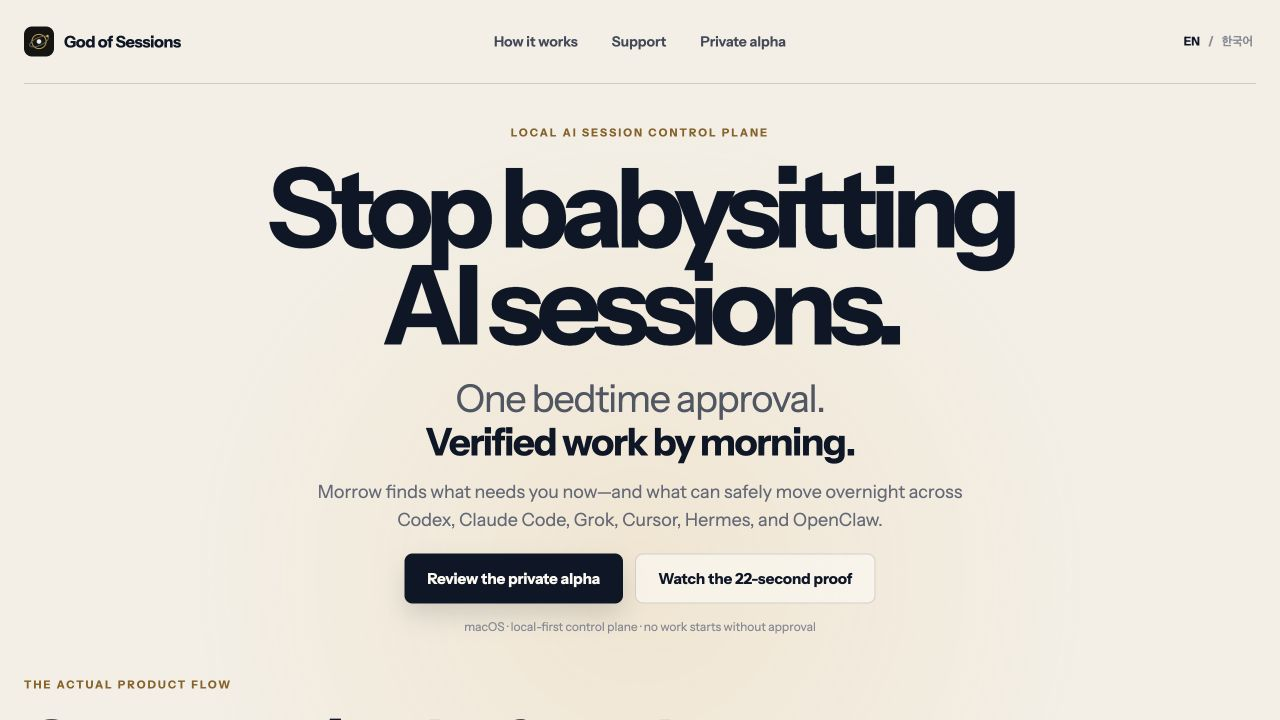
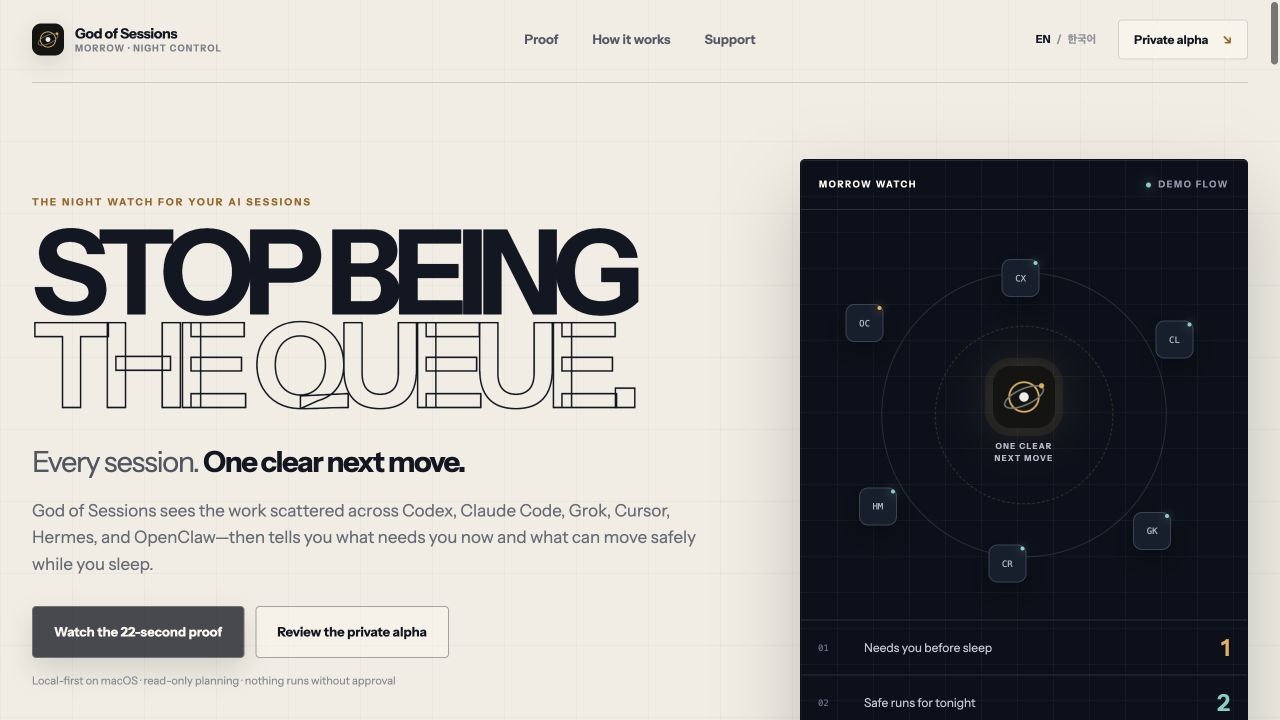
docs: refresh private alpha launch package

diff --git a/docs/launch/first-user-review.md b/docs/launch/first-user-review.md
@@ -2,64 +2,76 @@
 
 ## Verdict
 
-The launch candidate explains a distinct product in five seconds and makes one
-install reason memorable. The proof is believable and the install path is
-honest. Conversion is ready for a private alpha; public download conversion is
-blocked by Apple notarization, not by another missing product feature.
+The launch candidate now presents one ownable idea in the first viewport:
+**Stop being the queue.** It immediately resolves the idea into the practical
+promise **Every session. One clear next move**, then proves the product with a
+22-second cut of the real English app.
+
+The landing and product proof are ready for a private alpha. A frictionless
+public Mac download is still blocked by Apple notarization, hosted-download
+verification, and a clean-machine install pass—not by another missing product
+feature.
 
 ## Stranger test
 
 | Question | Answer | Evidence |
 | --- | --- | --- |
-| Can a stranger understand it in five seconds? | **Yes** | The first viewport says “Stop babysitting AI sessions” and “One bedtime approval. Verified work by morning.” Both CTAs and the trust line are visible at 1280×720. |
-| Is it distinct from a multi-agent launcher? | **Yes** | Copy centers what needs the person, what can safely move overnight, one approval, and morning evidence—not opening agents in one workspace. |
-| Is one install reason memorable? | **Yes** | The bedtime approval → morning evidence outcome is repeated once as the hero promise and once as the branded close. |
-| Is there proof that it is a real product? | **Yes** | The second section is a 22-second current-app cut. Every fixture-backed frame is labeled `REAL APP UI · DEMO DATA`. |
-| Are permissions and safety understandable? | **Yes** | Planning is read-only; the exact route, workspace, permissions, and time are frozen before approval; direct unsupported write paths are visibly off. |
-| Does the CTA lead somewhere real? | **Private alpha: yes. Public launch: no.** | The review CTA reaches a signed 6.1 MB DMG and states notarization is pending. The page never labels it a normal public install. |
-| Does the landing work without video? | **Yes** | Hero, four-step workflow, trust boundary, provider matrix, install status, and FAQ contain the complete decision path. |
-| Does the video create interest without the landing? | **Yes** | It opens with the human-queue pain, shows the actual Morrow path, and ends with the single outcome; captions make it silent-first. |
+| Can a stranger understand it in five seconds? | **Yes** | The first viewport names the operator bottleneck, promises one next move, shows the six session sources converging on Morrow Watch, and exposes the proof CTA. |
+| Is it distinct from a multi-agent launcher? | **Yes** | The story is about attention, capacity, one exact approval, and morning evidence—not opening more agent terminals. |
+| Is one install reason memorable? | **Yes** | “Stop being the queue” is the hook; one bedtime approval followed by provider evidence is the concrete outcome. |
+| Is there proof that it is a real product? | **Yes** | The next section is a 22-second current-app cut. It uses the real English surface and marks fixture-backed frames `REAL APP UI · DEMO DATA`. |
+| Are permissions and safety understandable? | **Yes** | The three-state system separates `Needs you`, `Safe tonight`, and `Morning evidence`; a separate instrument panel shows the exact route, workspace, permission, network, time, and wake deadline. |
+| Does the CTA lead somewhere real? | **Private alpha: yes. Public launch: no.** | The install CTA reaches a signed 6.1 MB DMG and explicitly states that notarization is pending. |
+| Does the landing work without video? | **Yes** | Hero, signal board, three-state decision system, exact approval boundary, support matrix, install state, and FAQ carry the complete story. |
+| Does the video create interest without the landing? | **Yes** | It opens on the human-queue problem, shows Morrow Watch → question → ranked plan → exact approval → Morning Review, and works without audio. |
 
 ## P0/P1 changes applied
 
-- Changed the hero CTA from an implied immediate download to
-  `Review the private alpha`, matching the next section.
-- Replaced “fail closed” implementation language with the user-visible
-  authorization and evidence condition.
-- Corrected the login note so already-connected users are not promised two
-  browser flows.
-- Added runtime artifact detection so a missing DMG disables the CTA instead
-  of silently returning the landing HTML.
-- Kept the actual product proof immediately after the hero and moved no
-  character art above it.
-- Made response-time model locking visible and explanatory in the actual app;
-  selectors unlock after the turn finishes.
+- Rebuilt the landing around the ownable **night watch** thesis rather than a
+  generic SaaS section stack.
+- Replaced the launch proof with current English product captures; the longer
+  brand film remains untouched.
+- Added four chapter controls that seek to the exact product decisions and
+  expose the active chapter with `aria-pressed`.
+- Completed product-owned English strings across the shell, Control Board,
+  Session Inbox, Settings, Overnight, bundled evidence, and preview
+  conversation excerpts. User/provider-owned live titles remain verbatim.
+- Added visible model-setting outcomes: saving, success, provider fallback,
+  unsupported selection, and response-time lock explanations.
+- Replaced the old Korean-product social image with a 1200×630 English landing
+  preview.
+- Converted the below-fold Morrow image from a 1.6 MB eager PNG to a 63 KB
+  lazy-loaded WebP.
+- Kept the support matrix explicit about observation, capacity, direct
+  execution, and unsupported write paths.
 
 ## Visual and interaction checks
 
-- Desktop viewport checked in a real browser at 1280×720.
-- Hero headline, both CTAs, and the approval trust line fit before the fold.
-- Proof video reports 22.058667 seconds, reaches ready state 4, autoplays muted,
-  and hides the poster fallback only after it can play.
-- English/Korean switch changes hero copy and the live artifact-status text;
-  the English default was restored after testing.
-- Download HEAD returns the DMG rather than an HTML SPA fallback.
-- DOM order and accessible roles cover the navigation, both hero actions,
-  provider table, install links, and FAQ controls.
-- Mobile rules were inspected at the 900 px and 640 px breakpoints: navigation
-  collapses, hero actions stack full-width, proof becomes edge-to-edge, support
-  cells compact, install becomes one column, and install notes stack. The
-  connected browser would not permit a forced mobile viewport, so no claim of
-  an actual device screenshot is made.
+- Desktop checked in the connected browser at 1280×720.
+- Mobile checked with an actual 390×844 viewport override.
+- Both viewport checks reported no horizontal overflow.
+- English and Korean hero states were visually captured after the redesign;
+  the shorter Korean headline no longer forces a third oversized line.
+- The proof is readable on mobile, stays edge-to-edge, and retains the
+  `REAL APP UI · DEMO DATA` boundary.
+- The third chapter seeks to 11.9 seconds, starts playback, and moves
+  `aria-pressed` to the selected control.
+- The proof reports 22.0 seconds, H.264 1920×1080 at 30 fps, 4.0 MB, no audio
+  stream, and fast-start encoding.
+- English/Korean switching updates the asynchronous DMG state; English was
+  restored after testing.
+- The local download HEAD returns the DMG rather than the HTML fallback.
+- Reduced-motion behavior disables automatic looping and leaves normal video
+  controls available.
 
 ## Remaining conversion risk
 
-1. An unnotarized download creates a security detour before the product can
-   deliver value.
-2. Product-owned English content in Control Board/Overnight still needs a
-   clean pass; user/provider-owned titles should remain verbatim.
-3. A clean Apple Silicon account has not completed the hosted-download →
-   Applications → first question → relaunch path with quarantine preserved.
+1. The unnotarized download still creates a trust-breaking Gatekeeper detour.
+2. `sessions.vibejason.com` has not been connected to hosting, so the final
+   HTTPS download path and social metadata have not been verified in public.
+3. A clean Apple Silicon account has not completed download → Applications →
+   onboarding → provider connection → first question → quit/reopen with
+   quarantine preserved.
 
 These are release-quality blockers. None is a reason to add another
-orchestration feature tonight.
+orchestration feature.

diff --git a/docs/launch/public-copy-review.md b/docs/launch/public-copy-review.md
@@ -1,119 +1,70 @@
-# Public Copy Review — launch surfaces
+# Public copy review — launch surfaces
 
-**Mode:** audit+fix  
 **Scope:** `landing/index.html`, `landing/src/main.ts`, `landing/README.md`,
-`docs/launch/x-launch-package.md`  
-**Audience:** developers already using multiple local coding agents  
+`docs/launch/x-launch-package.md`
+
+**Audience:** developers already using several local coding agents
+
 **Date:** 2026-07-26
 
-## Counts
+**Result:** pass for private alpha; public-download claims remain blocked
 
-| P0 | P1 | P2 | Pass (reviewed) |
-| ---: | ---: | ---: | ---: |
-| 0 | 3 | 0 | 54 |
+## Copy contract
 
-### Narrative
+| Layer | Launch copy | Job |
+| --- | --- | --- |
+| Hook | **Stop being the queue.** | Names the operator bottleneck in a repeatable phrase |
+| Product promise | **Every session. One clear next move.** | Describes the stable value beyond the overnight use case |
+| Install outcome | **One bedtime approval. Verified work by morning.** | Gives a concrete reason to install |
+| Mechanism | Morrow finds what needs you now and what can safely move overnight. | Explains how the outcome happens |
 
-| N-P0 | N-P1 | N-P2 |
-| ---: | ---: | ---: |
-| 0 | 0 | 0 |
-
-## Post-fix status
-
-| Unresolved P0 | Unresolved P1 | Blocked | Deferred |
-| ---: | ---: | ---: | ---: |
-| 0 | 0 | 0 | 0 |
-
-**Surfaces scanned:** landing hero, proof, workflow, trust, support matrix,
-install, install notes, FAQ, metadata, landing developer README, and the drafted
-X package.  
-**Controls reviewed:** header anchors, language toggle, two hero CTAs, install
-download and notes CTAs, and four FAQ disclosures.
-
-## Findings and applied rewrites
-
-### P1-001 — Hero CTA implied an immediate download
-
-- **Surface:** landing hero
-- **Current:** `Get the private alpha`
-- **User question:** What happens when I press this?
-- **Issue:** The link scrolls to a signed-but-unnotarized install review; it
-  does not immediately download the DMG.
-- **Applied:** `Review the private alpha` /
-  `프라이빗 알파 설치 확인`
-- **Result:** pre-click expectation now matches the install section.
-
-### P1-002 — Support note exposed a security implementation phrase
-
-- **Surface:** support matrix footnote
-- **Current:** permission and receipt contracts must `fail closed`
-- **User question:** Why can I not run these providers yet?
-- **Issue:** “Fail closed” names an engineering policy, not the condition the
-  user will be able to verify.
-- **Applied:** direct execution stays off until the product can show exactly
-  what was authorized and return a run record the user can revisit.
-- **Result:** the limitation is expressed as predictable control and evidence.
-
-### P1-003 — Install note predicted login screens unconditionally
-
-- **Surface:** pre-install notes
-- **Current:** first run opens Codex and Claude browser logins
-- **User question:** What will happen after install?
-- **Issue:** already-connected users see verified status instead; unconnected
-  users open one official flow by pressing `Connect subscription`.
-- **Applied:** the note now states the exact conditional action and what
-  Morrow checks.
-- **Result:** the install promise matches the tested onboarding path.
+“Verified work” means verified provider provenance and bounded workspace
+evidence. It never means that the product proves the code is correct.
 
 ## Narrative architecture
 
-### Cluster map in display order
-
-| # | Section | Job |
+| # | Section | User question answered |
 | ---: | --- | --- |
-| 1 | Hero | pain, one install outcome, review CTA |
-| 2 | Actual product flow | strongest real-UI proof |
-| 3 | Bedtime briefing | four user actions |
-| 4 | Quiet by design | control and predictability |
-| 5 | Provider support | honest capability boundary |
-| 6 | Private alpha | exact install decision |
-| 7 | Install notes | blockers and next events |
-| 8 | FAQ | category, authorization, data route, evidence limit |
+| 1 | Hero + Morrow Watch signal board | What is this, and why should I care? |
+| 2 | Actual English product proof | Is it real? |
+| 3 | Operator bottleneck thesis | Why do existing agent launchers not solve this? |
+| 4 | Three-state decision system | What does Morrow actually decide? |
+| 5 | Exact approval instrument | What can happen without me? |
+| 6 | Provider support matrix | What works today? |
+| 7 | Private-alpha install | Can I try it, and what is the risk? |
+| 8 | Install boundary + FAQ | What happens next? |
 
-### Click path
+The strongest proof remains section 2. Character art appears only in the
+below-fold install close and does not displace actual product evidence.
 
-1. `Review the private alpha`
-2. read the notarization boundary
-3. `Download private alpha`
-4. complete four-step onboarding
-5. ask Morrow or review an overnight plan
-6. receive provider receipt plus bounded workspace evidence
+## Claim language checked
 
-### Strongest proof
+- **Six sources discovered** is allowed; **six providers executed** is not.
+- Planning, recommendation, and preflight are read-only.
+- An approved run is limited to Codex, Claude, and Hermes routes described in
+  the support matrix.
+- Direct Grok, Cursor, and OpenClaw write paths are visibly `Not yet`.
+- `Local-first` modifies the control plane, not provider prompts.
+- Morning Review proves receipt linkage and observed workspace evidence, not
+  correctness.
+- The download is always called **private alpha** and states that Apple
+  notarization is pending.
 
-- **Content:** 22-second current-app cut showing Morrow Watch,
-  recommendation, exact approval, and Morning Review.
-- **Rank:** section 2.
-- **Result:** pass; proof appears before workflow philosophy and support detail.
+## Applied clarity fixes
 
-The page has one entry path, so no artificial two-path fork is needed. The
-outcome promise appears in the hero and brand close; intermediate sections add
-new evidence instead of paraphrasing it.
+- Put the concrete proof CTA before the alpha-review CTA.
+- Replaced implementation jargon with the exact user-visible approval fields.
+- Added chapter labels that name outcomes instead of video timestamps.
+- Made unsupported provider execution a first-class table value.
+- Kept `REAL APP UI · DEMO DATA` visible in every fixture-backed proof frame.
+- Shortened the Korean hero to avoid a layout-driven change in emphasis.
+- Aligned X copy, metadata, social image, and landing hook around the same
+  queue → clear-next-move story.
 
 ## Certification
 
-**Result: PASS**
-
-| Edit | Result | Next event | No internals | No jargon | Why press | Verb + object | Expectation matches | Auxiliary |
-| --- | --- | --- | --- | --- | --- | --- | --- | --- |
-| P1-001 | ✓ | ✓ | ✓ | ✓ | ✓ | ✓ | ✓ | CTA ✓ |
-| P1-002 | ✓ | ✓ | ✓ | ✓ | ✓ | ✓ | ✓ | Trust ✓ |
-| P1-003 | ✓ | ✓ | ✓ | ✓ | ✓ | ✓ | ✓ | Trust ✓ |
-
-- Unresolved P0: **0**
-- Unresolved P1: **0**
-- Blocked P0/P1: **0**
-- Scope verification: all applied edits are within the enumerated launch
-  surfaces.
-
-**Certified by:** `public-copy-review` Phase 3
+- Unresolved copy P0: **0**
+- Unresolved copy P1: **0**
+- Product/operations blockers represented honestly: **3**
+  (notarization, hosted artifact path, clean-machine install proof)
+- External actions performed: **none**

diff --git a/docs/launch/install-readiness.md b/docs/launch/install-readiness.md
@@ -53,14 +53,6 @@ combination (API key/issuer/key file, or Apple ID app-specific password plus
 team ID), followed by notarization, stapling, and a clean Gatekeeper check on
 a downloaded/quarantined copy.
 
-### P0 — Complete English product surface
-
-The navigation, settings, onboarding, and conversation shell translate, but
-live project titles and some Control Board/Overnight fixture-derived content
-can still appear in Korean. Public English screenshots and first use must not
-look partially localized. Provider-owned user content should remain verbatim;
-product-owned labels and bundled fixtures must follow the selected language.
-
 ### P0 — Public download path
 
 `sessions.vibejason.com` is the selected candidate, but no DNS, hosting, or
@@ -90,21 +82,35 @@ polished Finder placement/background. There is no verified auto-update path
 yet. Neither blocks a trusted alpha, but both matter before asking strangers to
 install repeatedly.
 
+## Product-surface blocker cleared
+
+The earlier English-surface P0 is now cleared for the bundled launch path:
+
+- Ask Morrow, Control Board, Overnight, Session Inbox, Settings, onboarding,
+  model/effort notices, preview evidence, and bundled conversation excerpts
+  follow the selected language;
+- user- and provider-owned live titles remain verbatim by design;
+- the launch proof was recaptured entirely from the English product surface;
+- the landing, proof poster, and 1200×630 social image no longer use the old
+  Korean product capture;
+- visible and collapsed Control Board evidence were checked for Hangul in
+  English preview mode, with no product-owned Korean strings remaining.
+
 ## Release decision
 
 - **Private alpha:** GO for a small, explicit tester cohort.
 - **Public waitlist/demo page:** GO once hosted without presenting the current
   DMG as a normal public install.
 - **Public downloadable launch:** NO-GO until notarization, clean-machine
-  install proof, and product-owned English surface completion.
+  install proof, and the hosted artifact path are verified.
 
 ## Minimum morning actions
 
-1. Provide an App Store Connect notarization credential, rebuild/notarize/staple
-   the app and DMG, then require a clean `spctl` result.
-2. Finish the product-owned English Control Board/Overnight strings and run the
+1. Provide an App Store Connect notarization credential, rebuild/notarize/
+   staple the app and DMG, then require a clean `spctl` result.
+2. Upload that exact artifact, connect `sessions.vibejason.com`, and run the
    hosted-download → Applications → onboarding → first question → relaunch
    test on a clean Apple Silicon account with quarantine preserved.
-3. Only after both pass, upload the notarized artifact, connect
-   `sessions.vibejason.com`, recheck the landing CTA, and choose between the
-   Monday 8:30 AM PT public post or the already-drafted private-alpha wording.
+3. Recheck the production CTA, video, social preview, and support matrix, then
+   choose between the public post and the already-drafted private-alpha
+   wording.

diff --git a/docs/launch/positioning.md b/docs/launch/positioning.md
@@ -66,12 +66,14 @@ memorable. Do not rename the product to Morrow.
 
 ## Launch copy hierarchy
 
-1. **Stop babysitting AI sessions.**
-2. **One bedtime approval. Verified work by morning.**
-3. Morrow finds what needs you now—and what can safely move overnight.
+1. **Stop being the queue.**
+2. **Every session. One clear next move.**
+3. **One bedtime approval. Verified work by morning.**
+4. Morrow finds what needs you now—and what can safely move overnight.
 
-The first line names the pain. The second is the install reason. The third
-explains the mechanism.
+The first line turns the operator bottleneck into a phrase people can repeat.
+The second is the durable product catchphrase. The third is the concrete
+install outcome, and the fourth explains the mechanism.
 
 ## Public URL candidate
 
